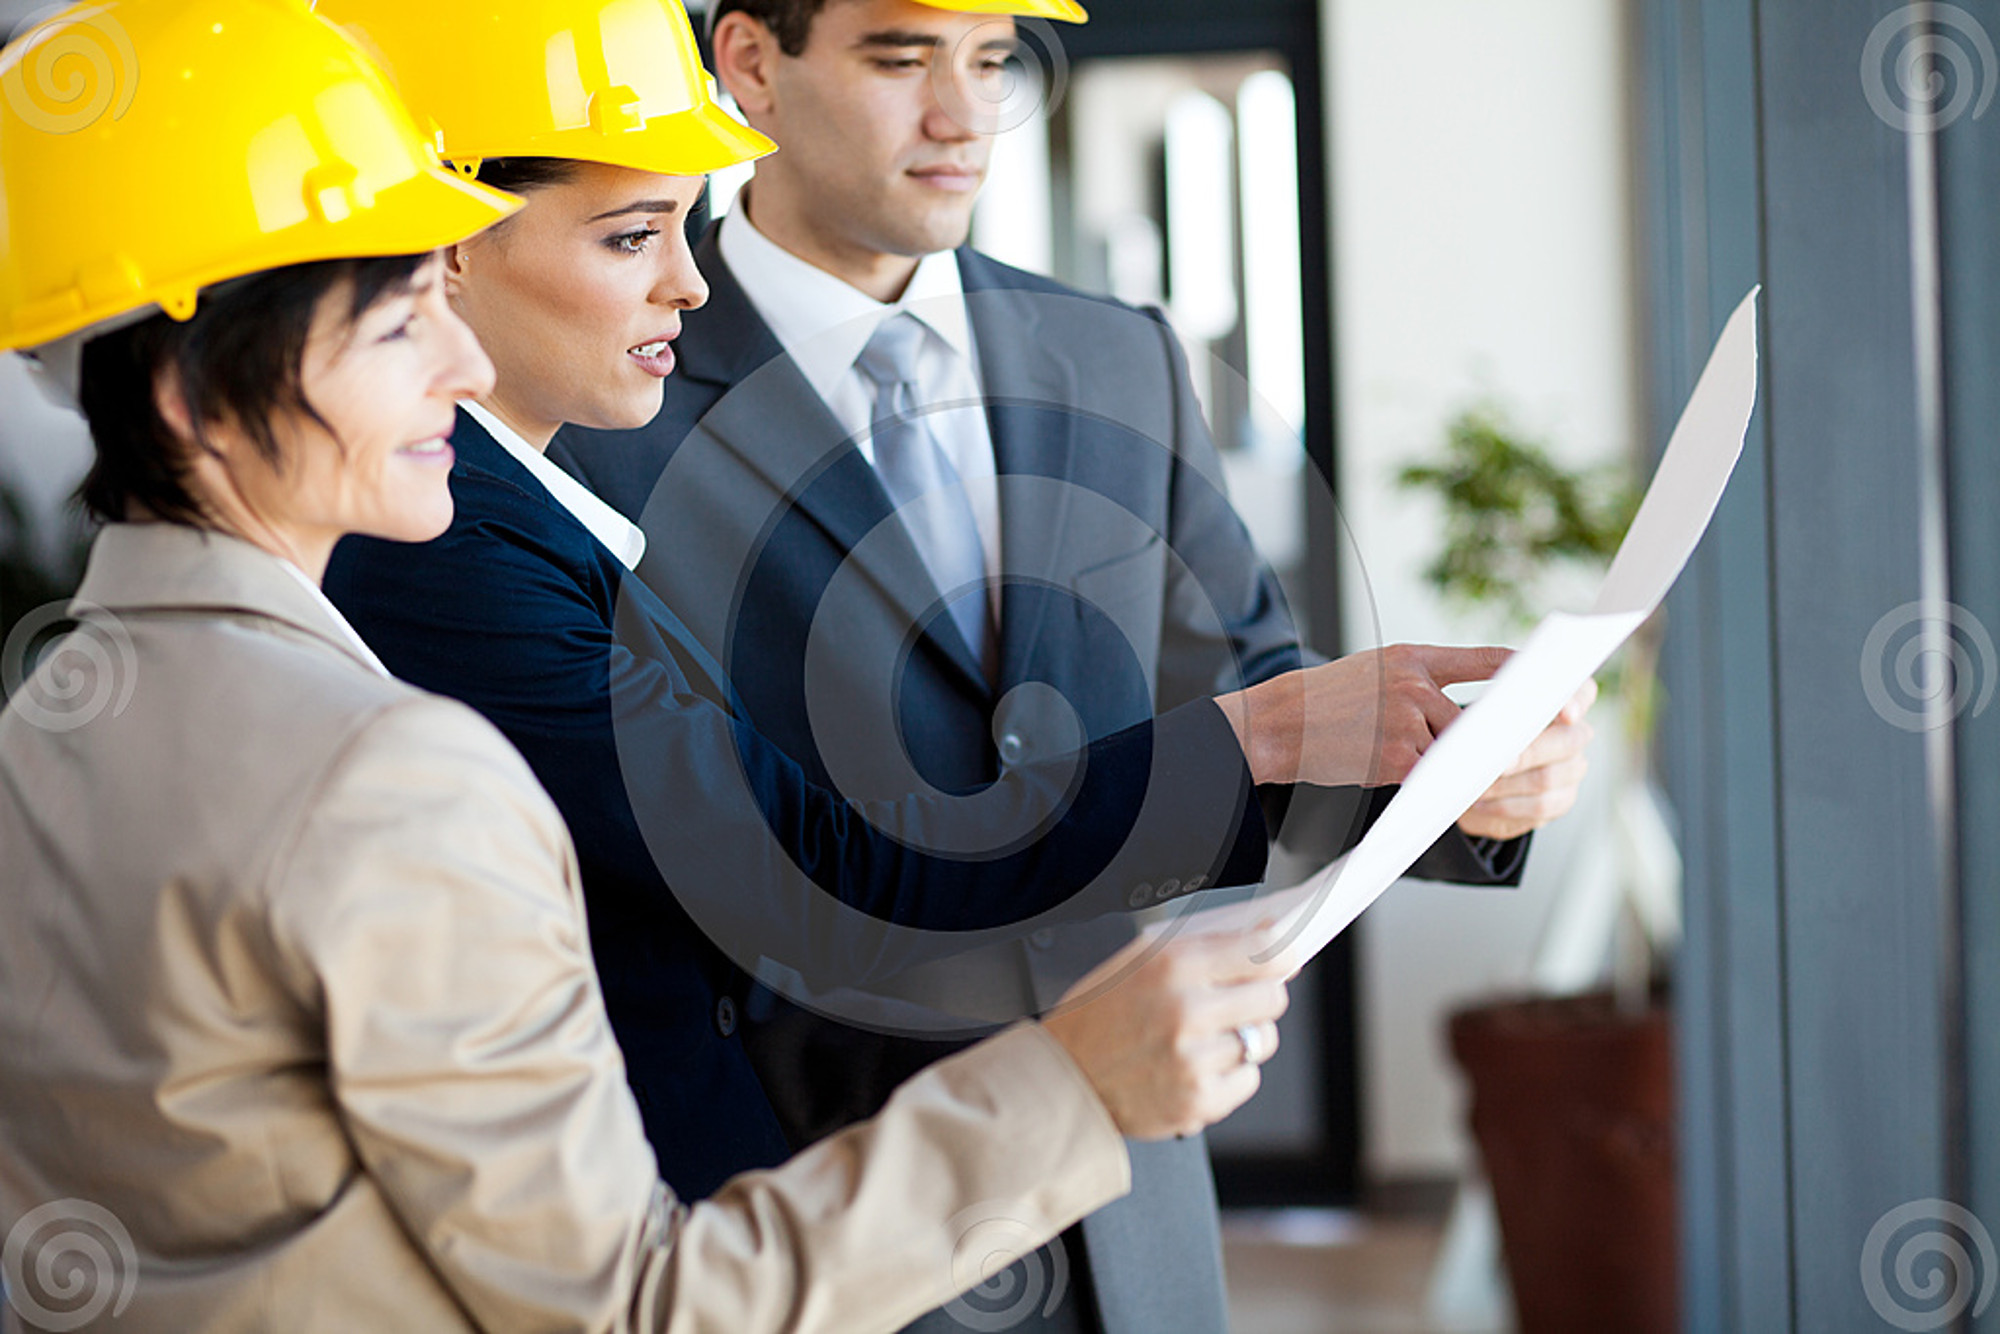
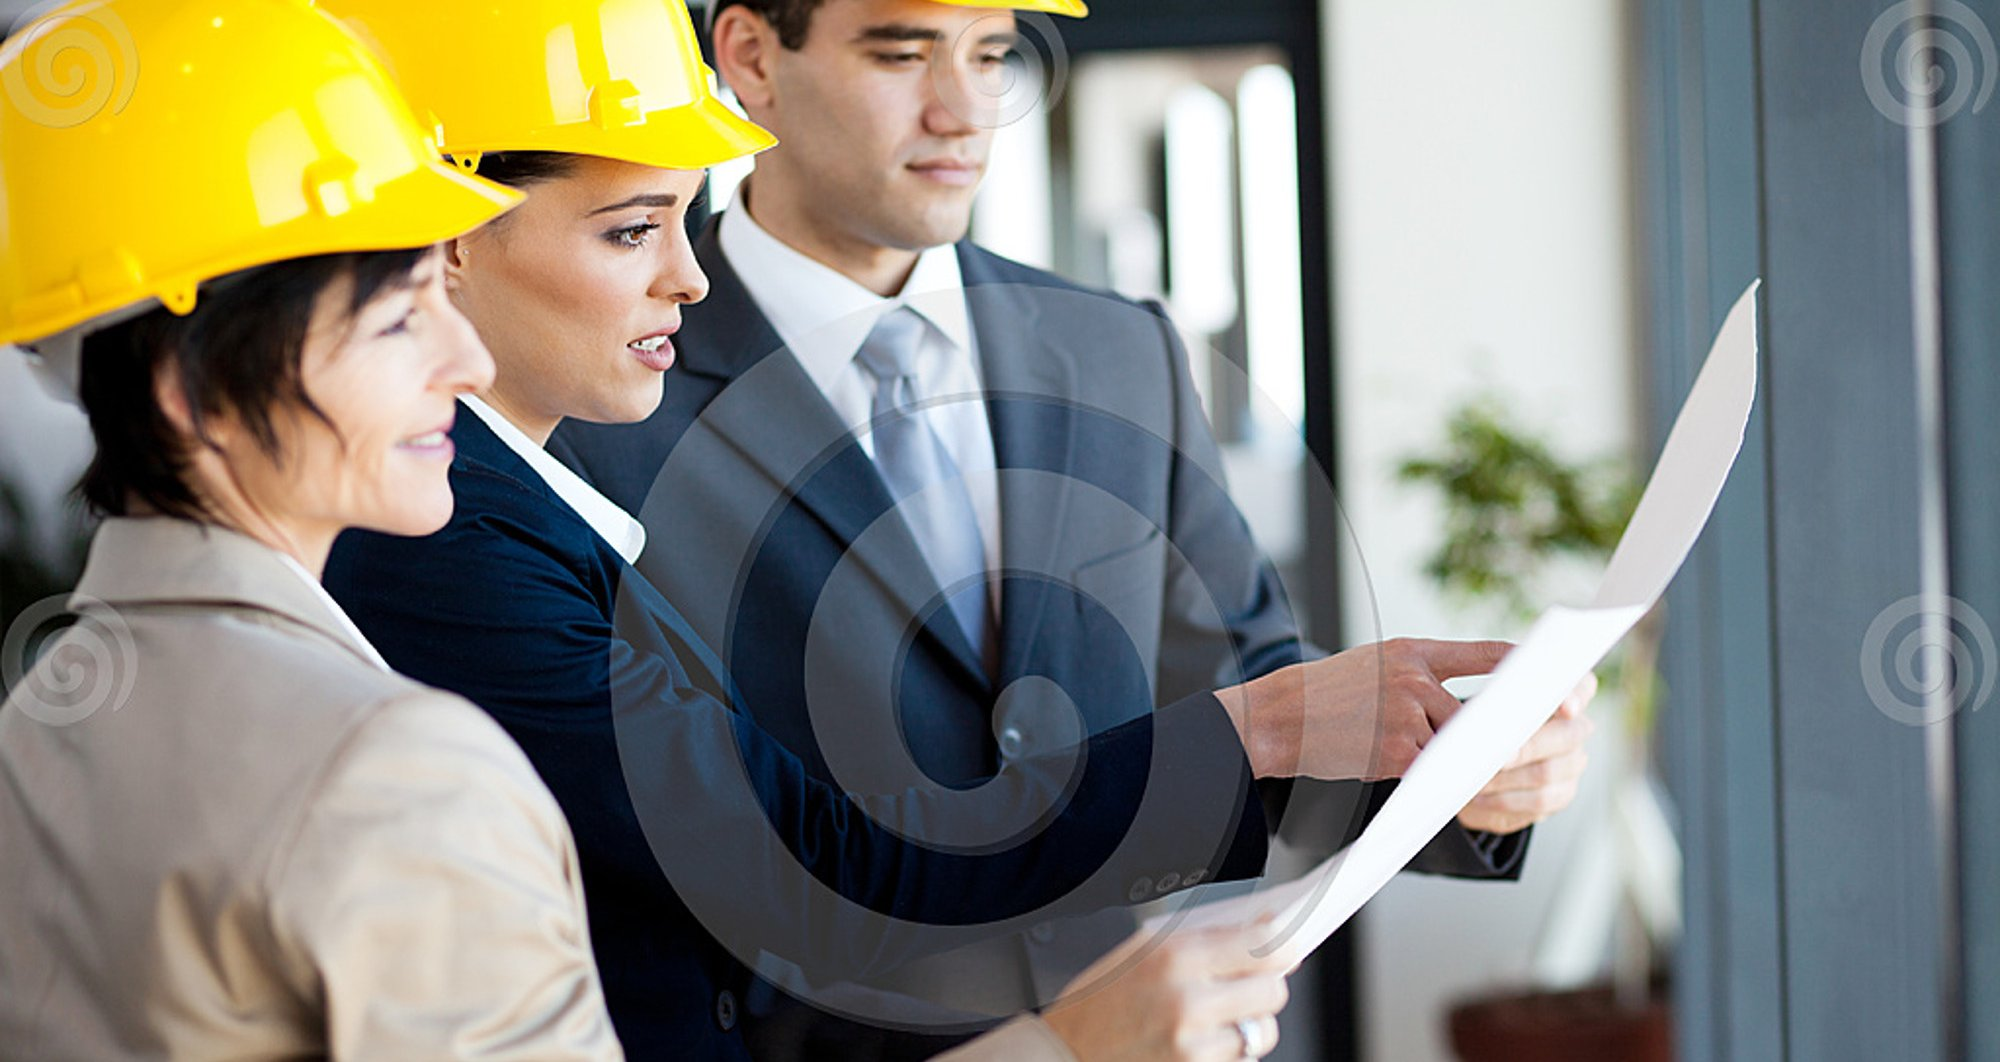
Added Careers page
Cleaned a few things up
        Consistecy between page spacing
        Remove unused css

diff --git a/templates/careers.html b/templates/careers.html
@@ -29,38 +29,14 @@
 	      </nav>
       </header>
 	</div>
-<video class="bg_video " muted="true" autoplay="true" loop="true" width="100%" height="100%">
-    <source type="video/mp4" src="static/vid/work.mp4"/>
-    <source type="video/webm" src="static/vid/work.webm"/>
-    <source type="video/ogg" src="static/vid/work.ogv"/>
-    Update yo browser yo!
-</video>
+<style type="text/css"> hr {margin-left: 50%;}</style>
 <div class="container-fluid">
-    <div class="row">
-        <div class="col-xs-12">
-            <p> <h2> Together </h2>Since 1959, Cator, Ruma & Associates has been providing 
-                consulting engineering services for institutional, commercial, industrial, and medical 
-                facilities through Colorado and the Western Region. We are one of the premier mechanical, 
-                electrical, plumbing, architectural lighting, and information technology firms in the western 
-                United States.
-            </p>
-            <p class="hidden-xs"> With over 80 employees and three offices in the western 
-                region, our firm has been built on a solid foundation of engineering knowledge. Since our 
-                founding, we have worked with many architects and institutions to build thriving communities. 
-                Our project success has allowed us to develop a long-standing and faithful repeat client base in 
-                healthcare, higher education, K-12, federal government, municipalities, and private industry. 
-                Our depth of experience helps us achieve value driven building systems that are optimized for 
-                energy efficiency and comfort.
-            </p>
-        </div>
+  <div class="row">
+    <div class="col-xs-12 brag-image">
+      <img id="hats" class="img-responsive" src="static/img/hats.web.jpg" >
     </div>
-    <div class="row" >
-        <div class="col-xs-12">
-            <p>
-                <h2> Individually </h2>
-            </p>
-        </div>
-    </div>
+  </div>
+
     <div class="row footer">
       <div class="col-xs-4">
         <span class="state"> Colorado: </span> <br>

diff --git a/s/about.s.html b/s/about.s.html
@@ -1,4 +1,3 @@
-<style type="text/css" > hr {margin-left: 25%;} </style>
 <video class="bg_video " muted="true" autoplay="true" loop="true" width="100%" height="100%">
     <source type="video/mp4" src="static/vid/work.mp4"/>
     <source type="video/webm" src="static/vid/work.webm"/>
@@ -6,10 +5,9 @@
     Update yo browser yo!
 </video>
 <div class="container-fluid">
-
     <div class="row">
         <div class="col-xs-12">
-            <p> <h1> Together </h1>Since 1959, Cator, Ruma & Associates has been providing 
+            <p> <h2> Together </h2>Since 1959, Cator, Ruma & Associates has been providing 
                 consulting engineering services for institutional, commercial, industrial, and medical 
                 facilities through Colorado and the Western Region. We are one of the premier mechanical, 
                 electrical, plumbing, architectural lighting, and information technology firms in the western 
@@ -28,7 +26,7 @@
     <div class="row" >
         <div class="col-xs-12">
             <p>
-                <h1> Individually </h1>
+                <h2> Individually </h2>
             </p>
         </div>
     </div>

diff --git a/templates/index.html b/templates/index.html
@@ -22,7 +22,7 @@
 	        <ul><!--
 		  --><li class="one"> <a href="index.html"> What We Do </a></li><!--
 		  --><li class="two" > <a href="about.html"> Who We Are </a></li><!--
-		  --><li class="three"> <a href="#"> Work With Us </a></li><!--
+		  --><li class="three"> <a href="careers.html"> Work With Us </a></li><!--
 		  --><li class="four" > <a > Contact Us </a></li><!--
 		  --><hr>
 	        </ul>
@@ -146,9 +146,9 @@
       <div class="col-xs-4">
         <span class="state"> Oklahoma: </span><br>
         <address>
-          1400 Pennsylvania Ave. <br>
-          Springfield, OK 82001 <br>
-          (303) 867-5309 
+          2101 NW 28th Street <br>
+          Oklahoma City, OK 73107 <br>
+          (405) 429-4060
         </address>
       </div>
      </div>

diff --git a/s/header.s.html b/s/header.s.html
@@ -22,7 +22,7 @@
 	        <ul><!--
 		  --><li class="one"> <a href="index.html"> What We Do </a></li><!--
 		  --><li class="two" > <a href="about.html"> Who We Are </a></li><!--
-		  --><li class="three"> <a href="#"> Work With Us </a></li><!--
+		  --><li class="three"> <a href="careers.html"> Work With Us </a></li><!--
 		  --><li class="four" > <a > Contact Us </a></li><!--
 		  --><hr>
 	        </ul>

diff --git a/static/css/cator_ruma.css b/static/css/cator_ruma.css
@@ -85,14 +85,8 @@ hr {
     padding-bottom: 1em;
 }
 address {
-    padding-left: 1em;
-    font-size: .6em;
+    font-size: .5em;
 }
-
-/* #union { */
-/*     min-width: 100%; */
-/*     max-width: 100%; */
-/* } */
 
 .gly-rotate-90 {
     filter: progid:DXImageTransform.Microsoft.BasicImage(rotation=1);
@@ -125,5 +119,5 @@ address {
 }
 
 video {
-    margin-top:2.3em;
+    margin-top:1.8em;
 }

diff --git a/s/footer.s.html b/s/footer.s.html
@@ -18,9 +18,9 @@
       <div class="col-xs-4">
         <span class="state"> Oklahoma: </span><br>
         <address>
-          1400 Pennsylvania Ave. <br>
-          Springfield, OK 82001 <br>
-          (303) 867-5309 
+          2101 NW 28th Street <br>
+          Oklahoma City, OK 73107 <br>
+          (405) 429-4060
         </address>
       </div>
      </div>

diff --git a/s/careers.s.html b/s/careers.s.html
@@ -1,0 +1,8 @@
+<style type="text/css"> hr {margin-left: 50%;}</style>
+<div class="container-fluid">
+  <div class="row">
+    <div class="col-xs-12 brag-image">
+      <img id="hats" class="img-responsive" src="static/img/hats.web.jpg" >
+    </div>
+  </div>
+
